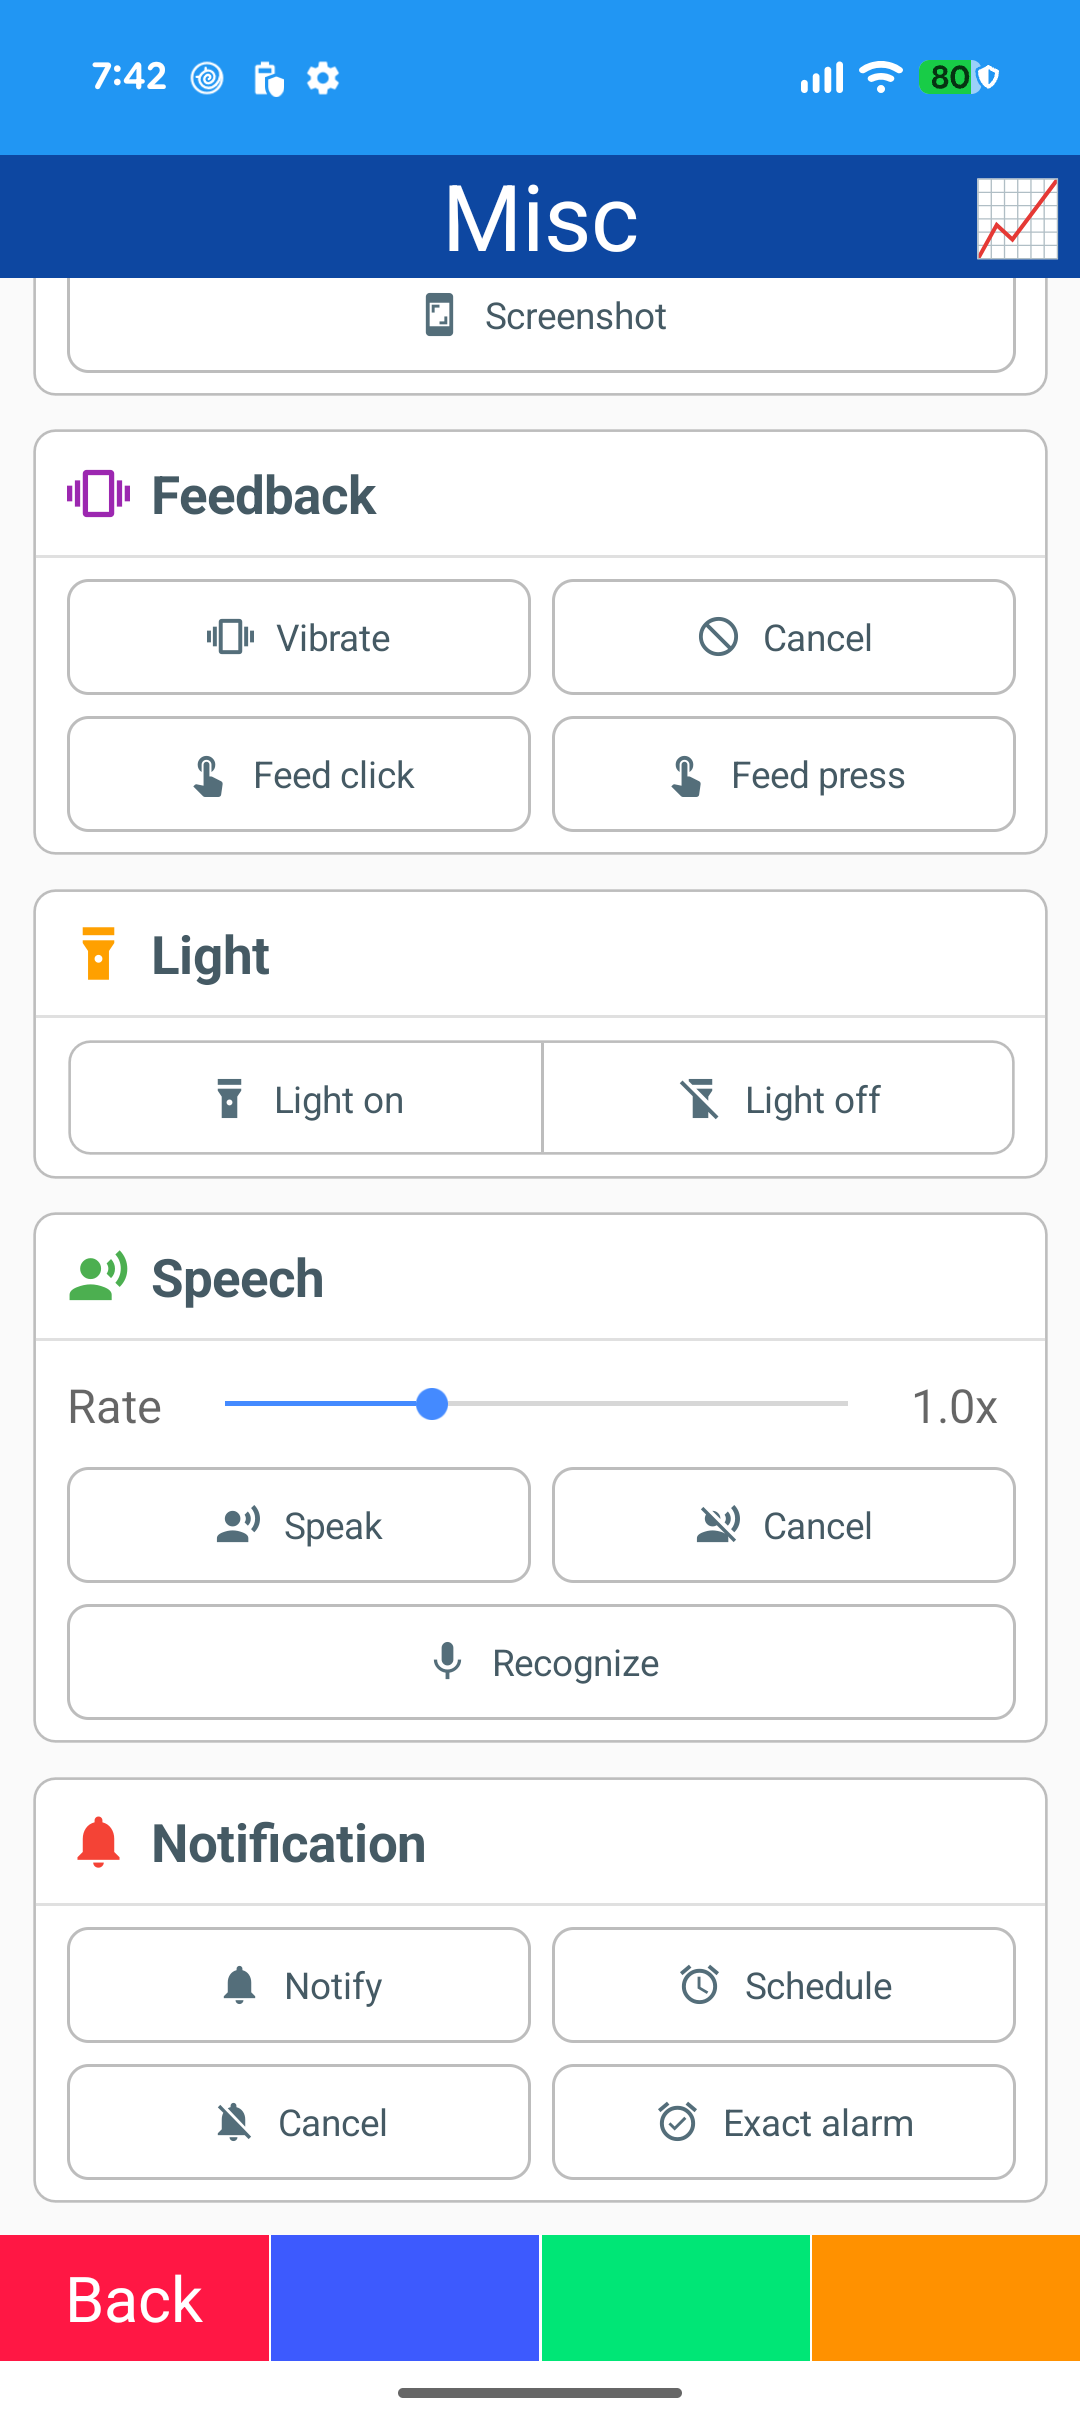
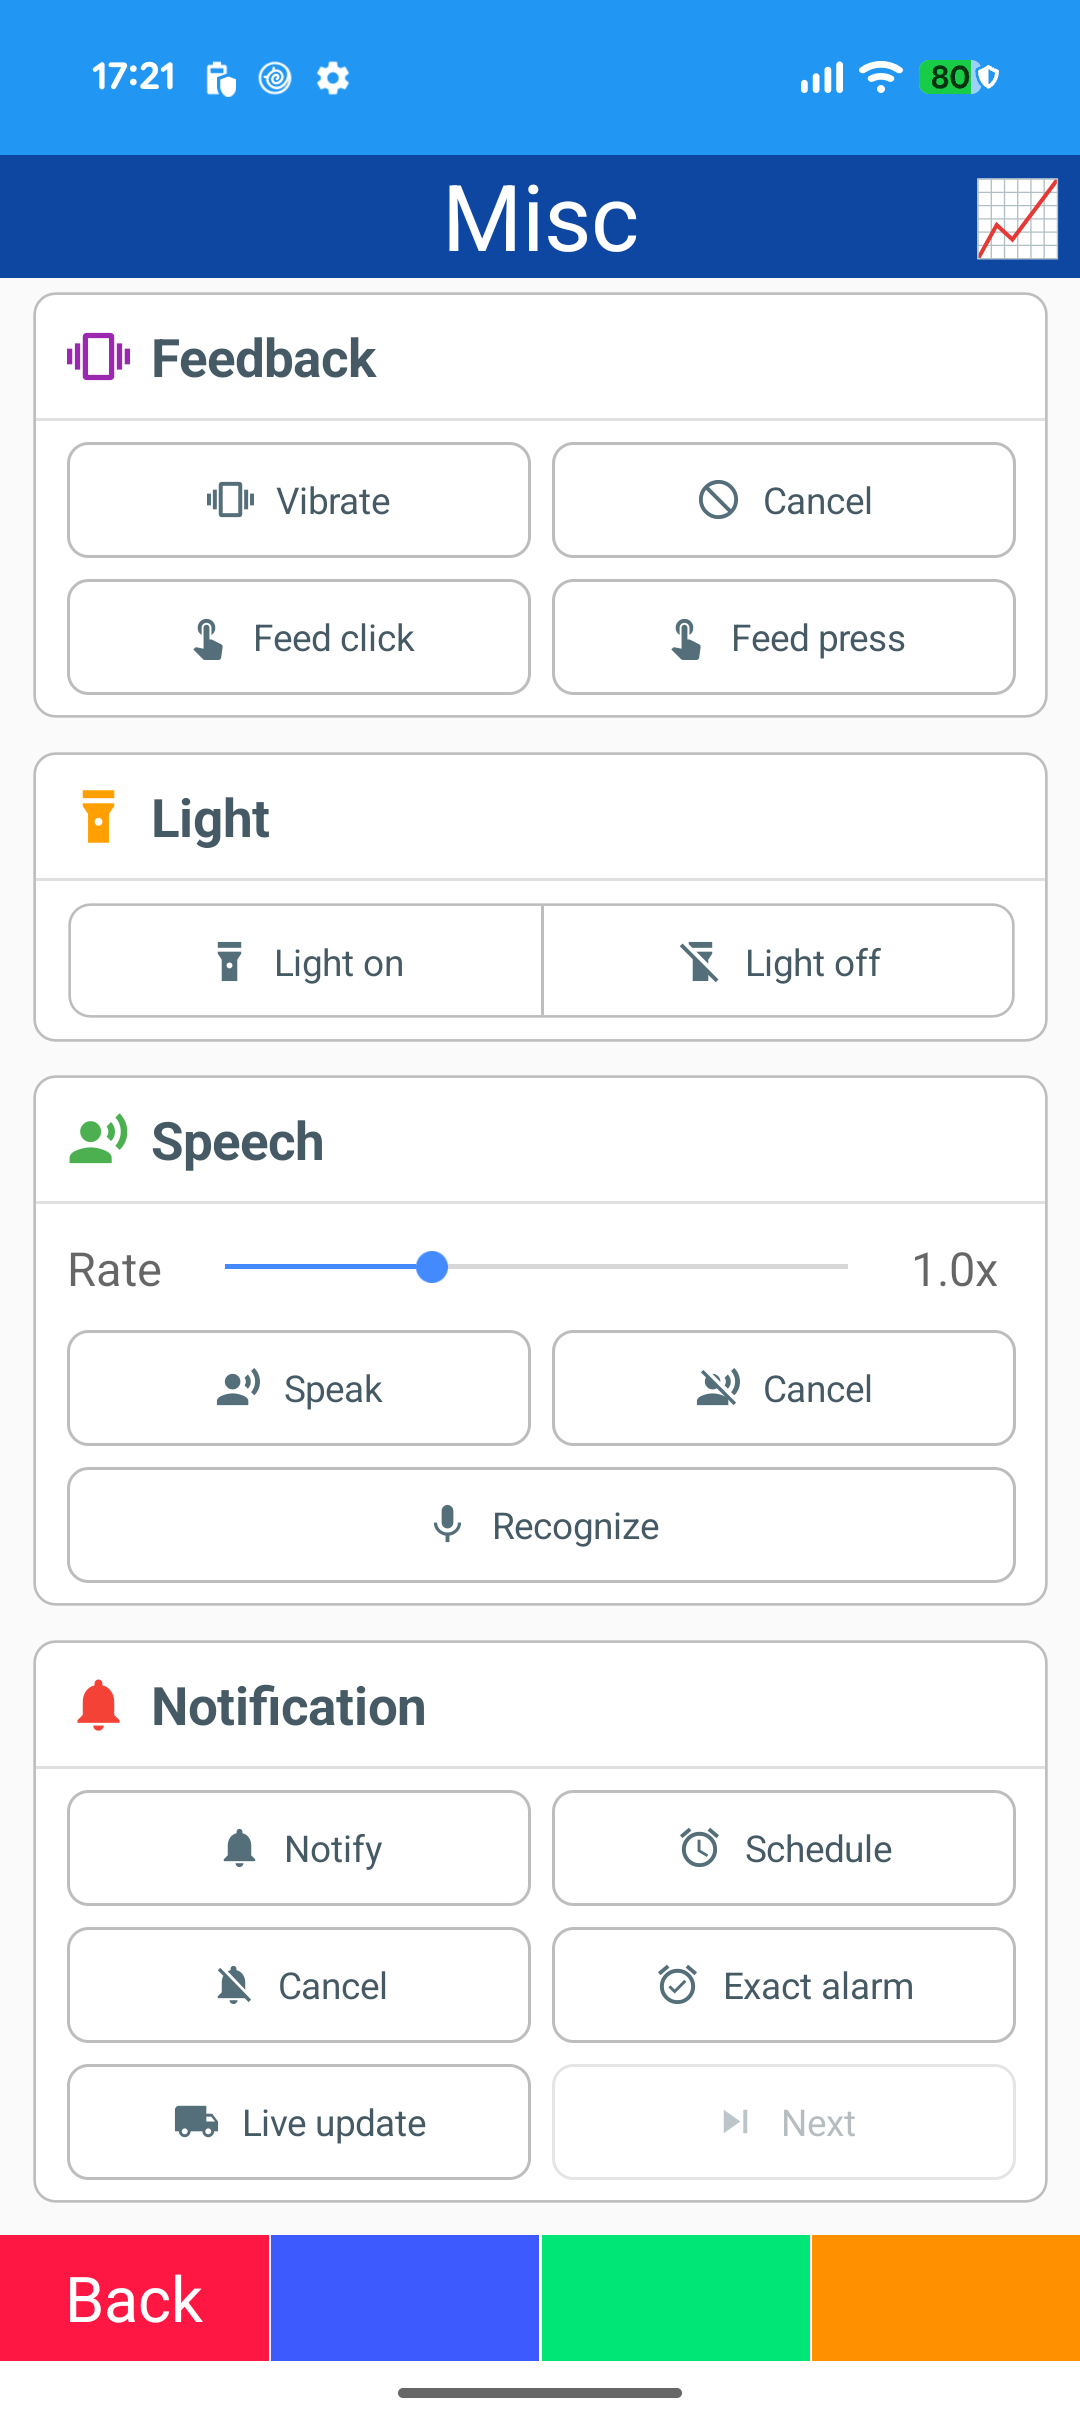
Update

diff --git a/Template.MobileApp/Modules/Device/DeviceMiscView.xaml b/Template.MobileApp/Modules/Device/DeviceMiscView.xaml
@@ -351,6 +351,19 @@
                                 Text="Exact alarm"
                                 ImageSource="{x:Static markup:AppIcons.SmallAlarmOn}" />
                     </Grid>
+                    <Grid Style="{StaticResource BasicButtonGrid}"
+                          ColumnDefinitions="*,*">
+                        <Button Grid.Column="0"
+                                Style="{StaticResource BasicIconOutlinedButton}"
+                                Command="{Binding NotifyLiveUpdateCommand}"
+                                Text="Live update"
+                                ImageSource="{x:Static markup:AppIcons.SmallLocalShipping}" />
+                        <Button Grid.Column="1"
+                                Style="{StaticResource BasicIconOutlinedButton}"
+                                Command="{Binding NotifyLiveUpdateNextCommand}"
+                                Text="Next"
+                                ImageSource="{x:Static markup:AppIcons.SmallSkipNext}" />
+                    </Grid>
                     <Label Style="{StaticResource CardPrimaryValueLabel}"
                            behaviors:AnimationOption.FadeInTrigger="{Binding NotificationText}"
                            IsVisible="{Binding NotificationText, Converter={StaticResource NotEmptyConverter}}"

diff --git a/Template.MobileApp/Modules/Device/DeviceMiscViewModel.cs b/Template.MobileApp/Modules/Device/DeviceMiscViewModel.cs
@@ -8,11 +8,17 @@ public sealed partial class DeviceMiscViewModel : AppViewModelBase
 
     private const int ScheduledNotificationId = 2;
 
+    private const int ProgressNotificationId = 3;
+
+    private static readonly string[] ShippingSteps = ["Picking", "Packing", "Shipping", "Delivered"];
+
     // Field
 
     private readonly IScreen screen;
 
     private readonly ISpeechService speech;
+
+    private readonly INotificationService notification;
 
     // Speech
 
@@ -29,6 +35,9 @@ public sealed partial class DeviceMiscViewModel : AppViewModelBase
 
     [ObservableProperty]
     public partial string NotificationText { get; set; } = string.Empty;
+
+    [ObservableProperty]
+    public partial int ShippingStep { get; set; }
 
     // Command
 
@@ -60,6 +69,8 @@ public sealed partial class DeviceMiscViewModel : AppViewModelBase
     public IObserveCommand NotifyScheduleCommand { get; }
     public IObserveCommand NotifyCancelCommand { get; }
     public IObserveCommand NotifyExactSettingCommand { get; }
+    public IObserveCommand NotifyLiveUpdateCommand { get; }
+    public IObserveCommand NotifyLiveUpdateNextCommand { get; }
 
     //--------------------------------------------------------------------------------
     // Constructor
@@ -76,6 +87,7 @@ public sealed partial class DeviceMiscViewModel : AppViewModelBase
     {
         this.screen = screen;
         this.speech = speech;
+        this.notification = notification;
 
         KeepScreenOnCommand = MakeDelegateCommand(() => screen.KeepScreenOn(true));
         KeepScreenOffCommand = MakeDelegateCommand(() => screen.KeepScreenOn(false));
@@ -162,9 +174,22 @@ public sealed partial class DeviceMiscViewModel : AppViewModelBase
         {
             notification.Cancel(NotificationId);
             notification.Cancel(ScheduledNotificationId);
+            notification.Cancel(ProgressNotificationId);
+            ShippingStep = 0;
             NotificationText = "Notification canceled";
         });
         NotifyExactSettingCommand = MakeDelegateCommand(notification.OpenExactAlarmSettings);
+        NotifyLiveUpdateCommand = MakeAsyncCommand(async () =>
+        {
+            if (!await Permissions.RequestNotificationsAsync())
+            {
+                NotificationText = "Notification not permitted";
+                return;
+            }
+
+            ShowShipping(1);
+        });
+        NotifyLiveUpdateNextCommand = MakeDelegateCommand(() => ShowShipping(ShippingStep + 1), () => (ShippingStep > 0) && (ShippingStep < ShippingSteps.Length));
         Disposables.Add(notification.TappedAsObservable().ObserveOnCurrentContext().Subscribe(x =>
             NotificationText = x.Action is null ? $"Tap: {x.Payload}" : $"Button [{x.Action}]: {x.Payload}"));
     }
@@ -184,4 +209,25 @@ public sealed partial class DeviceMiscViewModel : AppViewModelBase
     protected override Task OnNotifyBackAsync() => Navigator.ForwardAsync(ViewId.DeviceMenu);
 
     protected override Task OnNotifyFunction1() => OnNotifyBackAsync();
+
+    //--------------------------------------------------------------------------------
+    // Operation
+    //--------------------------------------------------------------------------------
+
+    private void ShowShipping(int step)
+    {
+        ShippingStep = step;
+        var status = ShippingSteps[step - 1];
+        if (step < ShippingSteps.Length)
+        {
+            var progress = $"{status} ({step}/{ShippingSteps.Length})";
+            notification.ShowProgress(ProgressNotificationId, "Shipping SO-2026-000123", progress, step, ShippingSteps.Length, $"{step}/{ShippingSteps.Length}", "SO-2026-000123");
+            NotificationText = notification.CanPostPromoted ? $"Live update: {progress}" : $"Progress: {progress}";
+        }
+        else
+        {
+            notification.Show(ProgressNotificationId, "Shipping SO-2026-000123", status, "SO-2026-000123");
+            NotificationText = status;
+        }
+    }
 }

diff --git a/Template.MobileApp/Modules/Navigation/Edit/EditDetailViewModel.cs b/Template.MobileApp/Modules/Navigation/Edit/EditDetailViewModel.cs
@@ -2,13 +2,17 @@ namespace Template.MobileApp.Modules.Navigation.Edit;
 
 using Template.MobileApp.Services;
 
-public sealed partial class EditDetailViewModel : AppViewModelBase
+public sealed partial class EditDetailViewModel : AppViewModelBase, IConfirmRequestAsync
 {
     // Field
+
+    private readonly IDialog dialog;
 
     private readonly DataService dataService;
 
     private WorkEntity entity = default!;
+
+    private string original = string.Empty;
 
     // Property
 
@@ -16,15 +20,17 @@ public sealed partial class EditDetailViewModel : AppViewModelBase
     public partial bool IsUpdate { get; set; }
 
     [ObservableProperty]
-    public partial string Name { get; set; } = default!;
+    public partial string Name { get; set; } = string.Empty;
 
     //--------------------------------------------------------------------------------
     // Constructor
     //--------------------------------------------------------------------------------
 
     public EditDetailViewModel(
+        IDialog dialog,
         DataService dataService)
     {
+        this.dialog = dialog;
         this.dataService = dataService;
     }
 
@@ -42,9 +48,21 @@ public sealed partial class EditDetailViewModel : AppViewModelBase
                 entity = context.Parameter.GetValue<WorkEntity>();
                 Name = entity.Name;
             }
+
+            original = Name;
         }
 
         return Task.CompletedTask;
+    }
+
+    public Task<bool> CanNavigateAsync(INavigationContext context)
+    {
+        if (Name != original)
+        {
+            return dialog.ConfirmAsync("Discard changes ?").AsTask();
+        }
+
+        return Task.FromResult(true);
     }
 
     protected override Task OnNotifyBackAsync() => Navigator.ForwardAsync(ViewId.NavigationEditList);
@@ -63,6 +81,7 @@ public sealed partial class EditDetailViewModel : AppViewModelBase
             await dataService.InsertWorkAsync(Name);
         }
 
+        original = Name;
         await Navigator.ForwardAsync(ViewId.NavigationEditList);
     }
 }

diff --git a/Template.MobileApp/Components/NotificationService.android.cs b/Template.MobileApp/Components/NotificationService.android.cs
@@ -47,6 +47,15 @@ public sealed partial class NotificationService
         }
     }
 
+    public partial bool CanPostPromoted
+    {
+        get
+        {
+            using var compat = NotificationManagerCompat.From(Application.Context);
+            return compat?.CanPostPromotedNotifications() ?? false;
+        }
+    }
+
     public static void HandleIntent(Intent? intent)
     {
         if ((intent is null) || !intent.HasExtra(ExtraId))
@@ -89,6 +98,28 @@ public sealed partial class NotificationService
             }
         }
 
+        Notify(context, id, builder);
+    }
+
+    public partial void ShowProgress(int id, string title, string message, int progress, int max, string? shortText, string? payload)
+    {
+        var context = Application.Context;
+        using var style = new NotificationCompat.ProgressStyle();
+        for (var i = 0; i < max; i++)
+        {
+            using var segment = new NotificationCompat.ProgressStyle.Segment(1);
+            style.AddProgressSegment(segment);
+        }
+
+        style.SetProgress(progress);
+
+        using var builder = CreateBuilder(context, id, title, message, payload);
+        builder.SetStyle(style);
+        builder.SetAutoCancel(false);
+        builder.SetOngoing(true);
+        builder.SetOnlyAlertOnce(true);
+        builder.SetRequestPromotedOngoing(true);
+        builder.SetShortCriticalText(shortText);
         Notify(context, id, builder);
     }
 

diff --git a/Template.MobileApp/Components/NotificationService.cs b/Template.MobileApp/Components/NotificationService.cs
@@ -26,9 +26,13 @@ public interface INotificationService
 
     bool CanScheduleExact { get; }
 
+    bool CanPostPromoted { get; }
+
     NotificationTappedEventArgs? TakePendingTap();
 
     void Show(int id, string title, string message, string? payload = null, IReadOnlyList<NotificationAction>? actions = null);
+
+    void ShowProgress(int id, string title, string message, int progress, int max, string? shortText = null, string? payload = null);
 
     void Schedule(int id, string title, string message, TimeSpan delay, string? payload = null);
 
@@ -47,6 +51,8 @@ public sealed partial class NotificationService : INotificationService
 
     public partial bool CanScheduleExact { get; }
 
+    public partial bool CanPostPromoted { get; }
+
     public NotificationTappedEventArgs? TakePendingTap()
     {
         var tap = pendingTap;
@@ -55,6 +61,8 @@ public sealed partial class NotificationService : INotificationService
     }
 
     public partial void Show(int id, string title, string message, string? payload, IReadOnlyList<NotificationAction>? actions);
+
+    public partial void ShowProgress(int id, string title, string message, int progress, int max, string? shortText, string? payload);
 
     public partial void Schedule(int id, string title, string message, TimeSpan delay, string? payload);
 

diff --git a/Template.MobileApp/Markup/AppIcons.cs b/Template.MobileApp/Markup/AppIcons.cs
@@ -217,6 +217,8 @@ public static class AppIcons
     public static readonly FontImageSource SmallNotificationsOff = Create(MaterialIcons.Notifications_off, SmallSize, ResourceColor("BlueGrayDarken1"));
     public static readonly FontImageSource SmallAlarm = Create(MaterialIcons.Alarm, SmallSize, ResourceColor("BlueGrayDarken1"));
     public static readonly FontImageSource SmallAlarmOn = Create(MaterialIcons.Alarm_on, SmallSize, ResourceColor("BlueGrayDarken1"));
+    public static readonly FontImageSource SmallLocalShipping = Create(MaterialIcons.Local_shipping, SmallSize, ResourceColor("BlueGrayDarken1"));
+    public static readonly FontImageSource SmallSkipNext = Create(MaterialIcons.Skip_next, SmallSize, ResourceColor("BlueGrayDarken1"));
     public static readonly FontImageSource SmallStayCurrentLandscape = Create(MaterialIcons.Stay_current_landscape, SmallSize, ResourceColor("BlueGrayDarken1"));
     public static readonly FontImageSource SmallStayCurrentPortrait = Create(MaterialIcons.Stay_current_portrait, SmallSize, ResourceColor("BlueGrayDarken1"));
     public static readonly FontImageSource SmallTextFormat = Create(MaterialIcons.Text_format, SmallSize, ResourceColor("BlueGrayDarken1"));

diff --git a/README.md b/README.md
@@ -109,7 +109,7 @@ Template project for MAUI.
 | --- | --- |
 | Basic | Typography / Style / Font / Converter / Behavior / Localization / Dialog / Validation / Setting |
 | Navigation | Basic / Stack / Wizard / Shared / Initialize / Cancel / Dialog / Effect |
-| Device | Info / Status / Sensor / Location / QR Display / QR Scan(Android AI) / Camera / OCR(Android AI) / WiFi / Bluetooth Serial / BLE / NFC / Audio / Activity / Biometric / Communication / Screen / Vibrate / Feed / LED / Speak / Recognize / Local notification |
+| Device | Info / Status / Sensor / Location / QR Display / QR Scan(Android AI) / Camera / OCR(Android AI) / WiFi / Bluetooth Serial / BLE / NFC / Audio / Activity / Biometric / Communication / Screen / Vibrate / Feed / LED / Speak / Recognize / Local notification / Live update |
 | Data | SQLite |
 | Network | Web API(Data CRUD / JWT Authentication) / Storage / Realtime(SignalR) / Push(SignalR) / gRPC / SFTP / OpenTelemetry |
 | View | Layout / State / Border / Shadow / Animation / Easing / Effect / Drag & Drop / Graphics / Drawing / Lottie / SVG / Bottom sheet / Drawer / Toolkit / Custom / Clam Chart / Sf Chart |

diff --git a/Document/Example03_Device.md b/Document/Example03_Device.md
@@ -155,4 +155,4 @@
 - Screen: keep awake / orientation / brightness / screenshot
 - Vibration / haptic feedback / flashlight
 - Text to speech / speech to text
-- Notifications: immediate / scheduled / action buttons
+- Notifications: immediate / scheduled / action buttons / live update (Android 16 QPR1+)

diff --git a/Document/Example02_Navigation.md b/Document/Example02_Navigation.md
@@ -10,6 +10,7 @@
 
 - NavigationParameter
 - Edit screen for New / Update
+- Confirm before leaving with unsaved changes
 
 ## Stack
 
